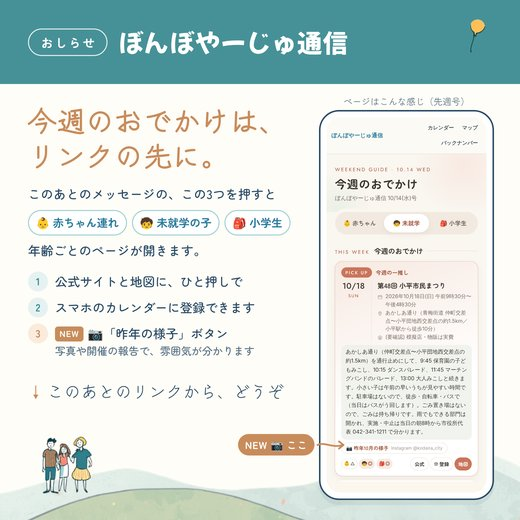
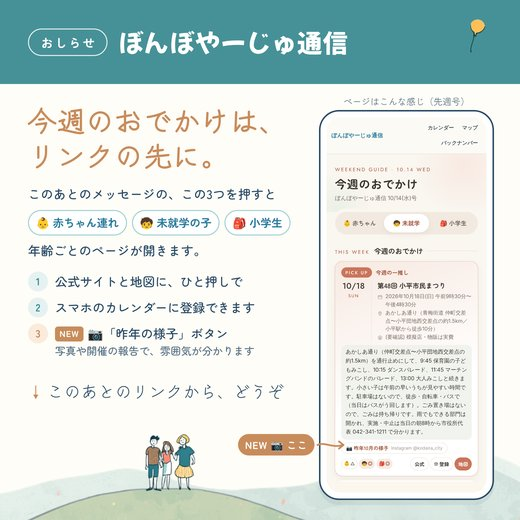
10/21号の案内画像: 左下の家族を緑の丘の稜線に乗せる（オーナー指摘）
Claude-Session: https://claude.ai/code/session_01TyaNTcqynAhK5RxtQUWRVv

Changed region(s): [[0.0615, 0.8308, 0.1846, 0.9538], [0.2769, 0.8308, 0.4, 0.9538]]

diff --git a/docs/print/line/guide-2026-10-21.html b/docs/print/line/guide-2026-10-21.html
@@ -37,7 +37,10 @@
        color:#2A4B67; letter-spacing:.03em; }
   .go .arr{ display:inline-block; color:#C88C5C; margin-right:6px; }
   .hills{ position:absolute; left:-20px; width:1080px; bottom:-150px; opacity:.5; z-index:1; }
-  .family{ position:absolute; left:84px; bottom:46px; height:128px; z-index:2; }
+  /* ★足もとを緑の丘の稜線に乗せる（2026-10-21 オーナー「浮いている」）。
+       丘（.hills）の緑の上端を画素で測ると、x=280〜400 で y≈978 と平ら。左の斜面（x=84〜184 は y=1030〜995）では3人が乗らない。
+       家族の絵（family-3.png・144px）の足は 135 行目 → 高さ128pxなら上端から120px。足を稜線より3px下（草の中）に：top=861 → bottom=1040-861-128=51 */
+  .family{ position:absolute; left:290px; bottom:51px; height:128px; z-index:2; }
   .sun{ position:absolute; left:300px; bottom:118px; width:62px; opacity:.9; z-index:2; }
   .cap{ position:absolute; right:52px; top:190px; width:350px; text-align:center; font-size:18px;
         color:#5C7487; z-index:3; }
